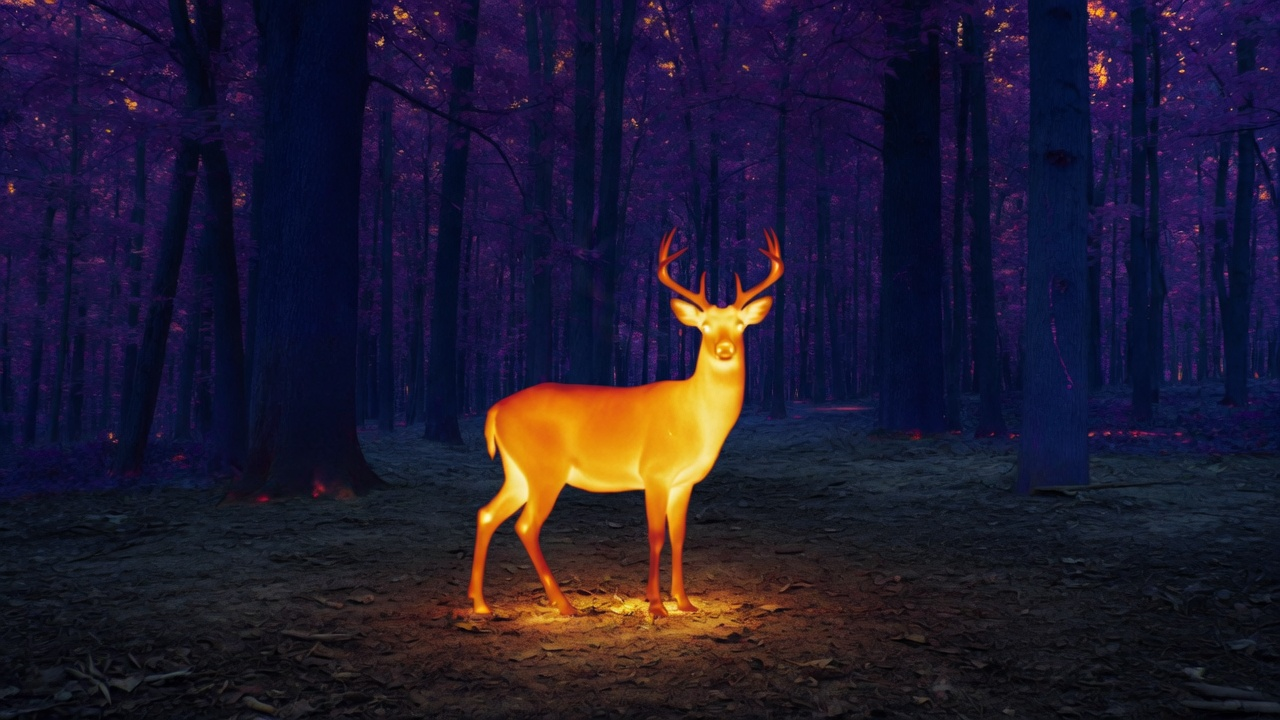
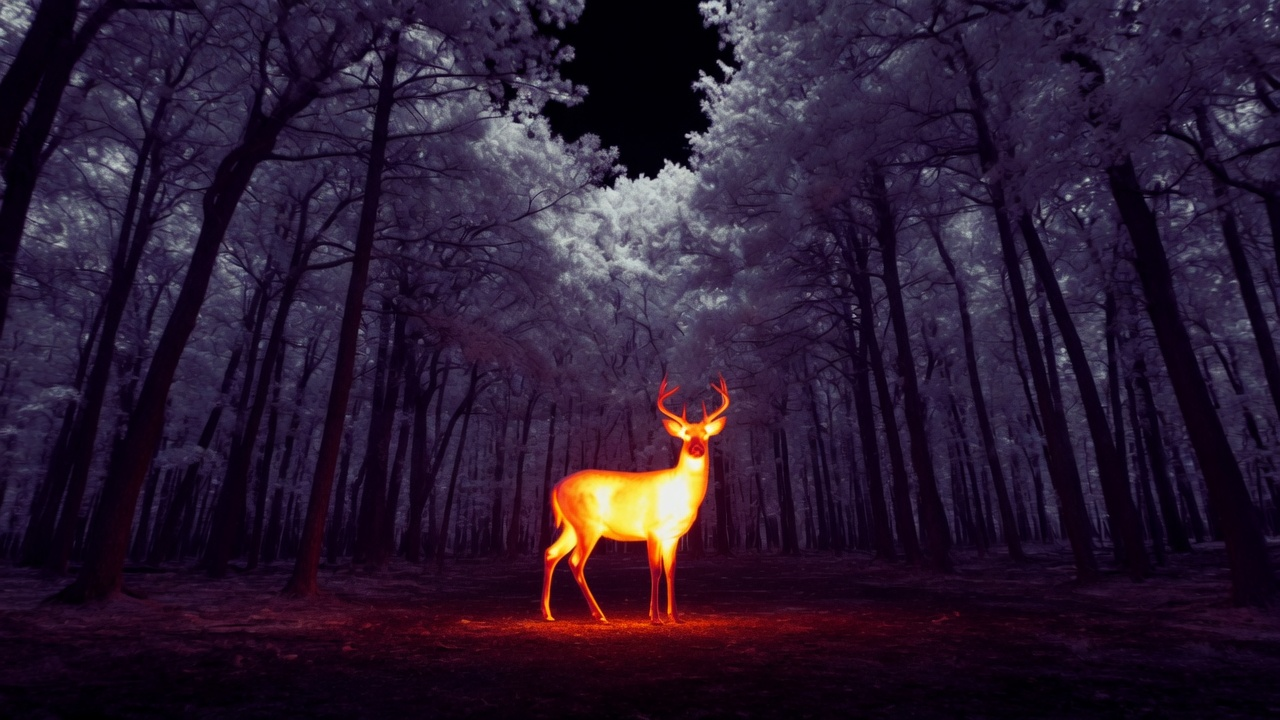
fix: Red-hot 1:1 with White-hot geometry; full deer at 50m zoom

diff --git a/src/components/product/ThermalSimulator.tsx b/src/components/product/ThermalSimulator.tsx
@@ -43,11 +43,12 @@ const SCENES: ThermalScene[] = [
     labelRu: "Олень в лесу",
     bakedWhite: "/thermal/scene_deer_whitehot.jpg",
     bakedIron: "/thermal/scene_deer_ironhot.jpg",
-    // Feet on forest floor in lower-center clearing
+    // Hooves on ground plane (same UV for white & iron — identical geometry)
     anchorX: 0.5,
     anchorY: 0.78,
     viewAnchorX: 0.5,
-    viewAnchorY: 0.78,
+    // Feet lower in the view so antlers + full body fit at max zoom-in
+    viewAnchorY: 0.9,
   },
 ];
 
@@ -55,7 +56,11 @@ const LOGIC_W = 480;
 const LOGIC_H = 270;
 const SCENE_W = 960;
 const SCENE_H = 540;
-const ZOOM_NEAR = 2.45;
+/**
+ * Max optical zoom at 50 m. Kept modest so full deer (hooves→antlers)
+ * stays inside the 16:9 frame — was 2.45 and clipped the animal.
+ */
+const ZOOM_NEAR = 1.72;
 const ZOOM_FAR = 1.0;
 
 type PanelKey = "current" | "slot0" | "slot1";
@@ -355,8 +360,13 @@ export function ThermalSimulator({
     };
   }, [scene]);
 
+  /**
+   * Geometry is always from the white-hot bake (identical framing).
+   * Red-hot is applied in FX via ironLut — never a second composition.
+   * Iron bake is kept as a visual reference asset / fallback if white fails.
+   */
   const ensureScene = useCallback(() => {
-    const key = `${scene.id}|${palette}|baked-v5`;
+    const key = `${scene.id}|geom-white|v6`;
     if (sceneRef.current && sceneKeyRef.current === key) {
       return sceneRef.current;
     }
@@ -364,11 +374,15 @@ export function ThermalSimulator({
       sceneRef.current = document.createElement("canvas");
     }
     const img =
-      palette === "whitehot" ? bakedWhite.current : bakedIron.current;
+      bakedWhite.current &&
+      bakedWhite.current.complete &&
+      bakedWhite.current.naturalWidth > 0
+        ? bakedWhite.current
+        : bakedIron.current;
     composeBakedScene(sceneRef.current, img);
     sceneKeyRef.current = key;
     return sceneRef.current;
-  }, [scene, palette]);
+  }, [scene]);
 
   const renderPanel = useCallback(
     (
@@ -425,7 +439,7 @@ export function ThermalSimulator({
         weather,
         palette,
         panelSeedExtra,
-        "v5-baked-compare"
+        "v6-palette-1to1"
       );
       const rand = mulberry32(seed);
 
@@ -441,6 +455,7 @@ export function ThermalSimulator({
       const contrast = netdContrast(panelParams.netdMk, fog);
       const fogLift = fog ? 22 : 0;
 
+      // Palette is pure post-process on luminance → white & red share geometry 1:1
       for (let i = 0; i < d.length; i += 4) {
         if (d[i + 3] === 0) continue;
         const r = d[i];
@@ -454,10 +469,11 @@ export function ThermalSimulator({
         if (palette === "whitehot") {
           d[i] = d[i + 1] = d[i + 2] = y;
         } else {
+          // Full ironbow remap (no blend with source RGB) — same pixels as white
           const [rr, gg, bb] = ironLut(y / 255);
-          d[i] = Math.round(rr * 0.55 + r * 0.45);
-          d[i + 1] = Math.round(gg * 0.55 + g * 0.45);
-          d[i + 2] = Math.round(bb * 0.55 + b * 0.45);
+          d[i] = rr;
+          d[i + 1] = gg;
+          d[i + 2] = bb;
         }
         d[i + 3] = 255;
       }
